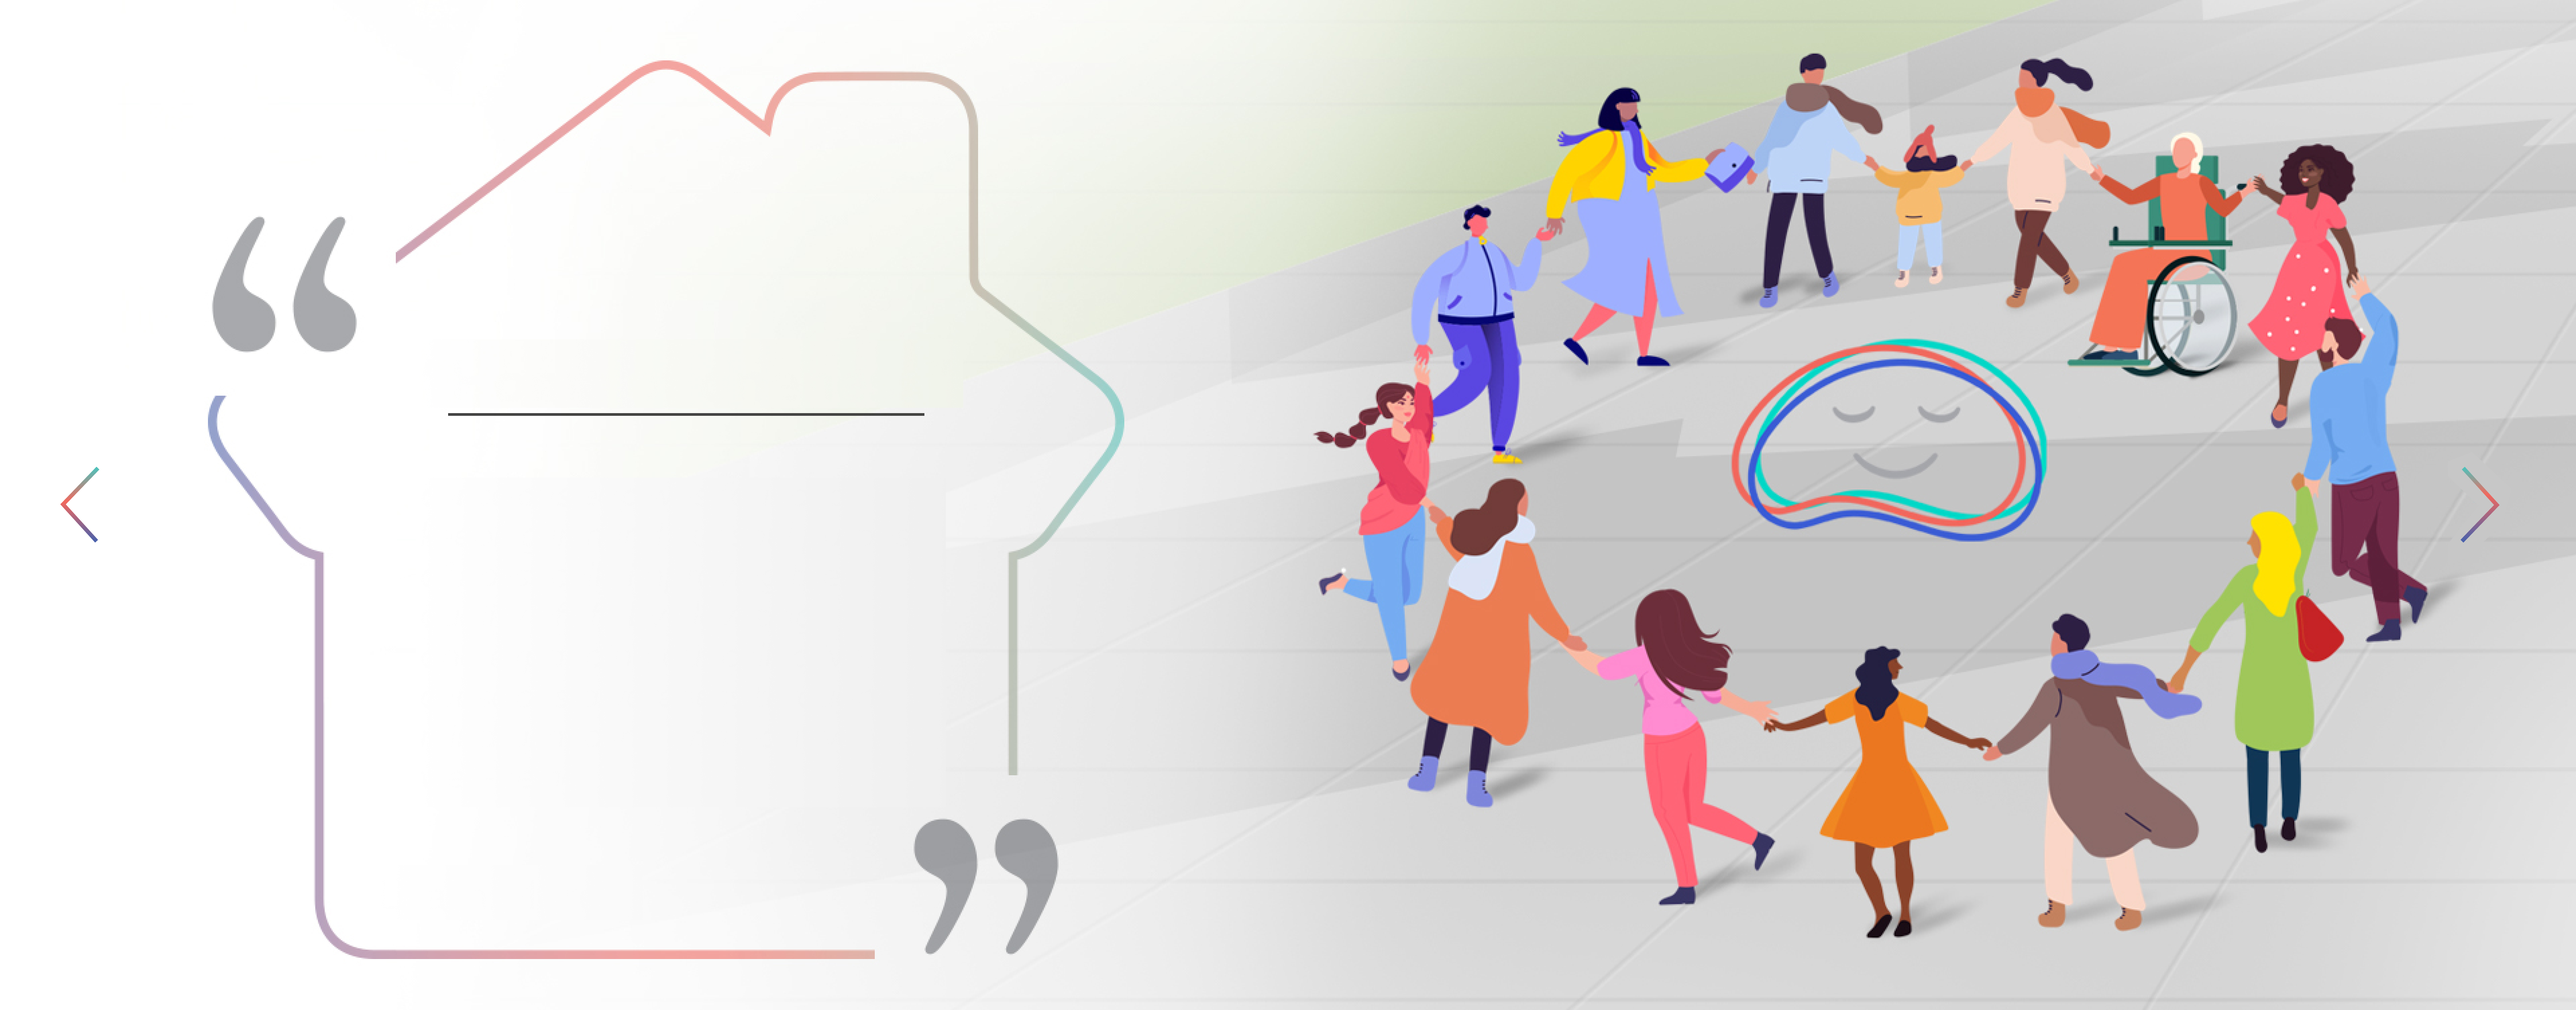
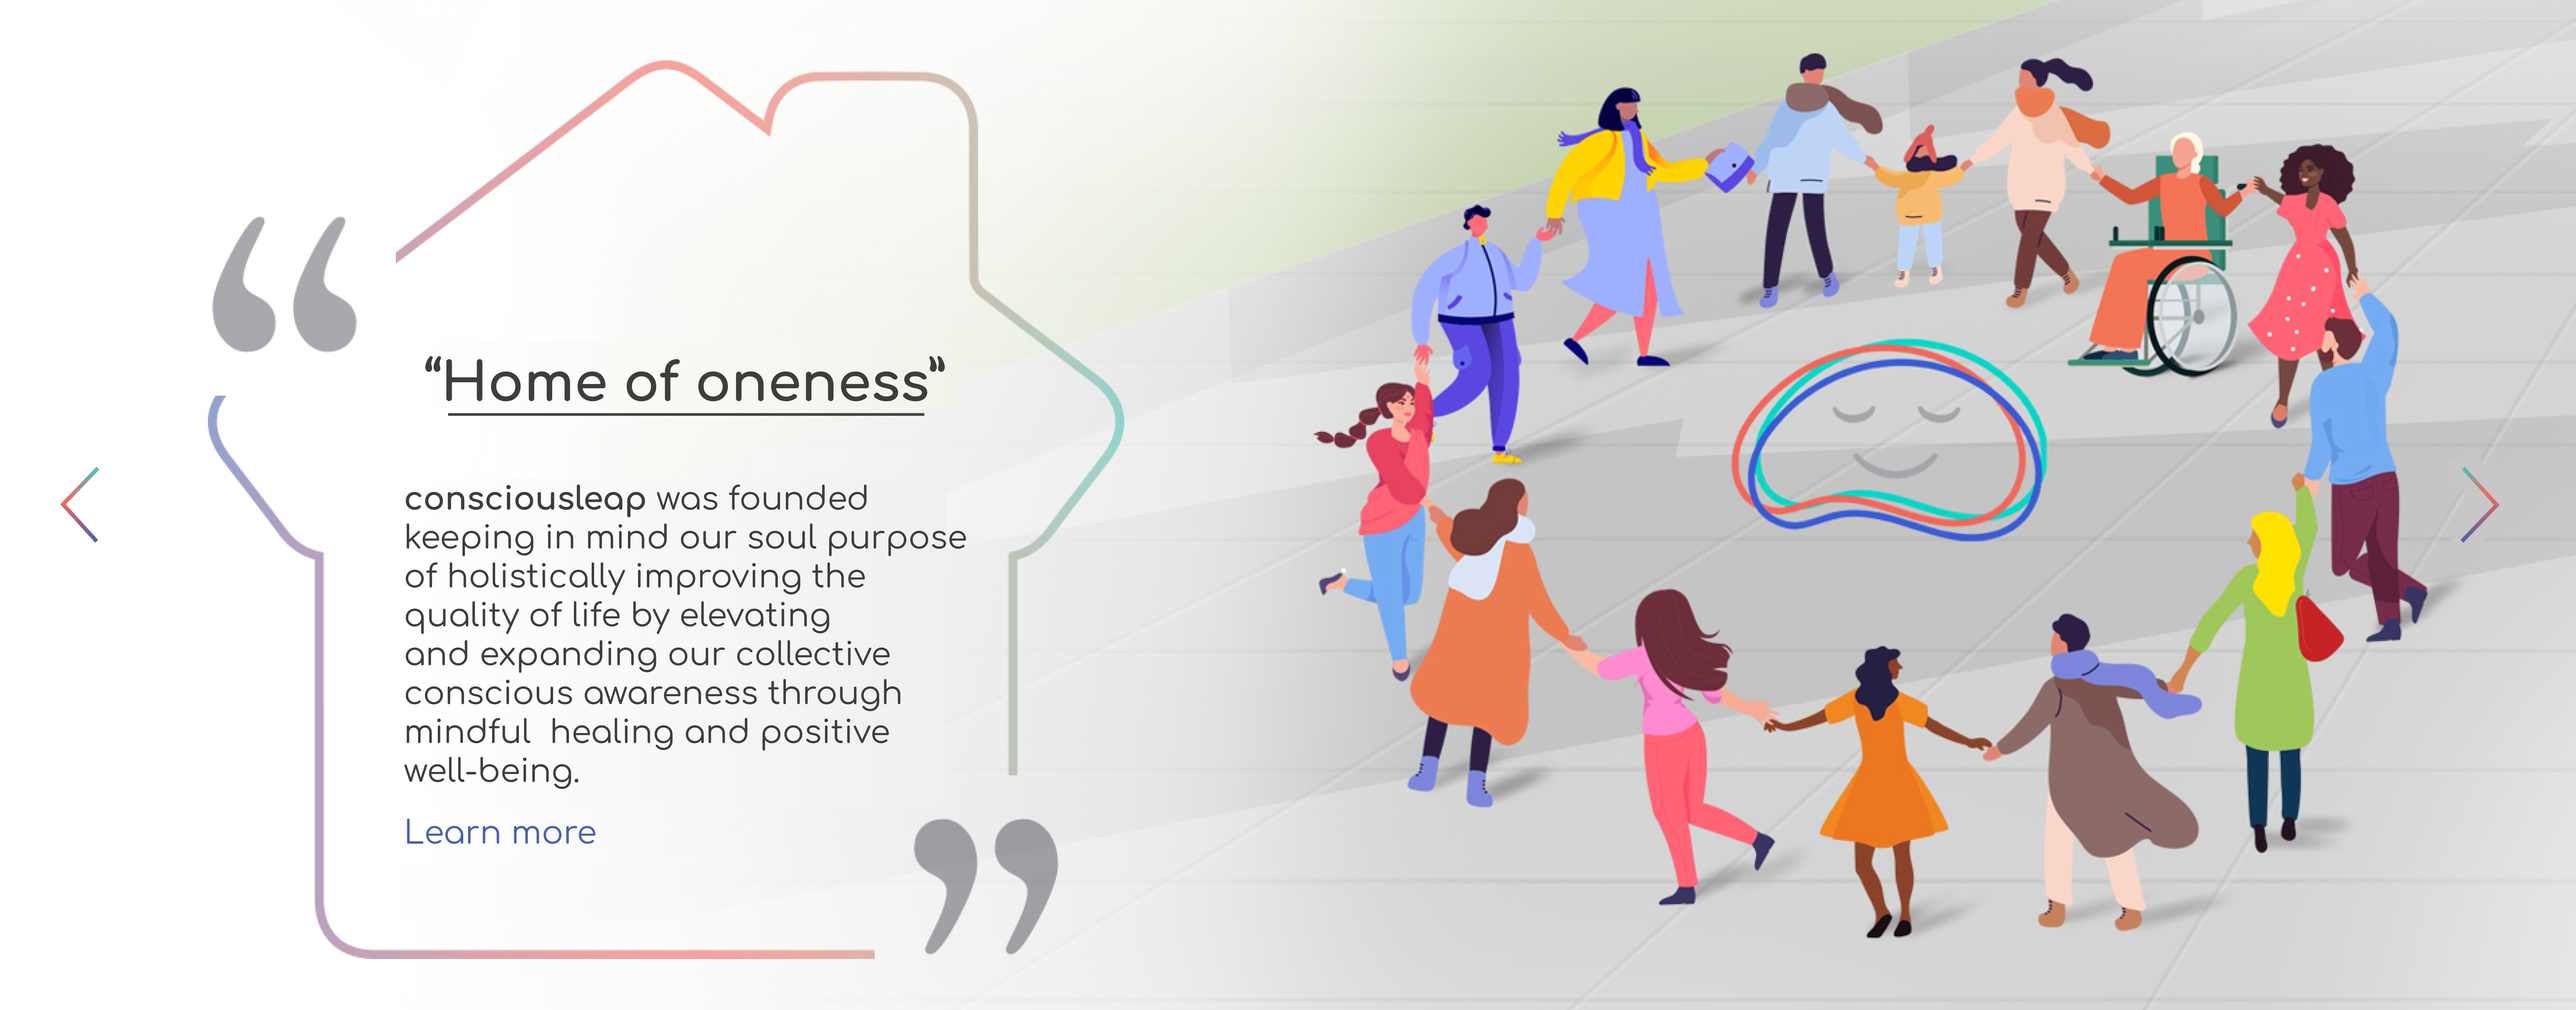
ASDF

Changed region(s): [[0.1562, 0.4681, 0.375, 0.7802], [0.1562, 0.3433, 0.375, 0.4057], [0.1562, 0.8114, 0.2188, 0.8426]]

diff --git a/app/(main)/Components/BootstrapCarousel.js b/app/(main)/Components/BootstrapCarousel.js
@@ -45,17 +45,17 @@ export default function BootstrapCarousel() {
           history.push("/faqs");
         }}
       >
-        <h1 className="absolute font-bold mac:text-4xl text-[10px] md:text-2xl top-[15%] md:top-[33.5%] left-[13%] md:left-[19.5%]">
+        <h1 className="absolute opacity-0 font-bold mac:text-4xl text-[10px] md:text-2xl top-[15%] md:top-[33.5%] left-[13%] md:left-[19.5%]">
           &ldquo;Home of oneness&rdquo;
         </h1>
-        <p className="absolute top-[43%] left-[13%] md:left-[17%] text-[6px] mac:text-3xl md:text-lg w-[26%] md:w-[20%] z-50">
+        <p className="absolute opacity-0 top-[43%] left-[13%] md:left-[17%] text-[6px] mac:text-3xl md:text-lg w-[26%] md:w-[20%] z-50">
           <span className="font-bold">consciousleap</span> was founded keeping
           in mind our soul purpose of holistically improving the quality of life
           by elevating and expanding our collective conscious awareness through
           mindful healing and positive well-being. <br />
           <span className="text-websiteBlue cursor-pointer">Learn More</span>
         </p>
-        <Image src={frame2} alt="Frame 1" />
+        <Image src={frame2} alt="Frame 1" className="cursor-pointer" />
       </SwiperSlide>
       <SwiperSlide
         className="relative"
@@ -63,17 +63,17 @@ export default function BootstrapCarousel() {
           history.push("/faqs");
         }}
       >
-        <h1 className="absolute font-bold text-[10px] mac:text-4xl md:text-2xl top-[7%] md:top-[25%] left-[18%] md:left-[22%]">
+        <h1 className="absolute opacity-0 font-bold text-[10px] mac:text-4xl md:text-2xl top-[7%] md:top-[25%] left-[18%] md:left-[22%]">
           Our Motto
         </h1>
-        <p className="absolute top-[34%] md:top-[34%] left-[13%] md:left-[17%] text-[6px] mac:text-3xl md:text-lg w-[28%] md:w-[20%] z-50">
+        <p className="absolute opacity-0 top-[34%] md:top-[34%] left-[13%] md:left-[17%] text-[6px] mac:text-3xl md:text-lg w-[28%] md:w-[20%] z-50">
           At <span className="font-bold">consciousleap</span>, we perceive and
           act subjectively, not objectively, without judgement. We believe all
           beings are divine, with varying degrees of conscious awareness.
           <br />
           <span className="text-websiteBlue cursor-pointer">Learn More</span>
         </p>
-        <Image src={frame5} alt="Frame 1" />
+        <Image src={frame5} alt="Frame 1" className="cursor-pointer" />
       </SwiperSlide>
       <SwiperSlide
         className="relative"
@@ -81,16 +81,16 @@ export default function BootstrapCarousel() {
           history.push("/faqs");
         }}
       >
-        <h1 className="absolute font-bold text-[10px] md:text-2xl mac:text-4xl top-[9%] md:top-[28%] left-[25%] md:left-[29%]">
+        <h1 className="absolute opacity-0 font-bold text-[10px] md:text-2xl mac:text-4xl top-[9%] md:top-[28%] left-[25%] md:left-[29%]">
           Our Values
         </h1>
-        <p className="absolute top-[38%] left-[24%] md:text-start text-center mac:text-3xl text-[6px] md:text-lg w-[20%] z-10">
+        <p className="absolute opacity-0 top-[38%] left-[24%] md:text-start text-center mac:text-3xl text-[6px] md:text-lg w-[20%] z-10">
           To bring about a holistic well-being culture with an inclusive outlook
           and mindful approach to mental well-being.
           <br />
           <span className="text-websiteBlue cursor-pointer">Learn More</span>
         </p>
-        <Image src={frame3} alt="Frame 1" />
+        <Image src={frame3} alt="Frame 1" className="cursor-pointer" />
       </SwiperSlide>
       <SwiperSlide
         className="relative"
@@ -98,16 +98,16 @@ export default function BootstrapCarousel() {
           history.push("/faqs");
         }}
       >
-        <h1 className="absolute font-bold text-[10px] md:text-2xl top-[6%] mac:text-4xl md:top-[24%] left-[17%] md:left-[21.5%]">
+        <h1 className="absolute opacity-0 font-bold text-[10px] md:text-2xl top-[6%] mac:text-4xl md:top-[24%] left-[17%] md:left-[21.5%]">
           Our Mission
         </h1>
-        <p className="absolute top-[34%] md:top-[34%] left-[16%] md:left-[16%] mac:text-3xl text-[6px] md:text-lg w-[24%] md:w-[21%] z-10">
+        <p className="absolute opacity-0 top-[34%] md:top-[34%] left-[16%] md:left-[16%] mac:text-3xl text-[6px] md:text-lg w-[24%] md:w-[21%] z-10">
           To transcend all barriers within and without that separate us from us
           through expert introspection towards a common goal of{" "}
           <span className="font-bold">oneness</span>.<br />
           <span className="text-websiteBlue cursor-pointer">Learn More</span>
         </p>
-        <Image src={frame4} alt="Frame 1" />
+        <Image src={frame4} alt="Frame 1" className="cursor-pointer" />
       </SwiperSlide>
 
       <SwiperSlide
@@ -116,15 +116,15 @@ export default function BootstrapCarousel() {
           history.push("/faqs");
         }}
       >
-        <h1 className="absolute font-bold text-[10px] md:text-2xl top-[8%] md:top-[25%] left-[23%] mac:text-4xl md:left-[26.5%]">
+        <h1 className="absolute opacity-0 font-bold text-[10px] md:text-2xl top-[8%] md:top-[25%] left-[23%] mac:text-4xl md:left-[26.5%]">
           Our Vision
         </h1>
-        <p className="absolute top-[35%] md:top-[36%] left-[21%] text-[6px] md:text-lg w-[20%] text-3xl z-10">
+        <p className="absolute opacity-0 top-[35%] md:top-[36%] left-[21%] text-[6px] md:text-lg w-[20%] text-3xl z-10">
           To bring about a collective healing transformation through a profound
           culture of <span className="font-bold">oneness</span>.<br />
           <span className="text-websiteBlue cursor-pointer">Learn More</span>
         </p>
-        <Image src={frame1} alt="Frame 1" />
+        <Image src={frame1} alt="Frame 1" className="cursor-pointer" />
       </SwiperSlide>
     </Swiper>
   );
